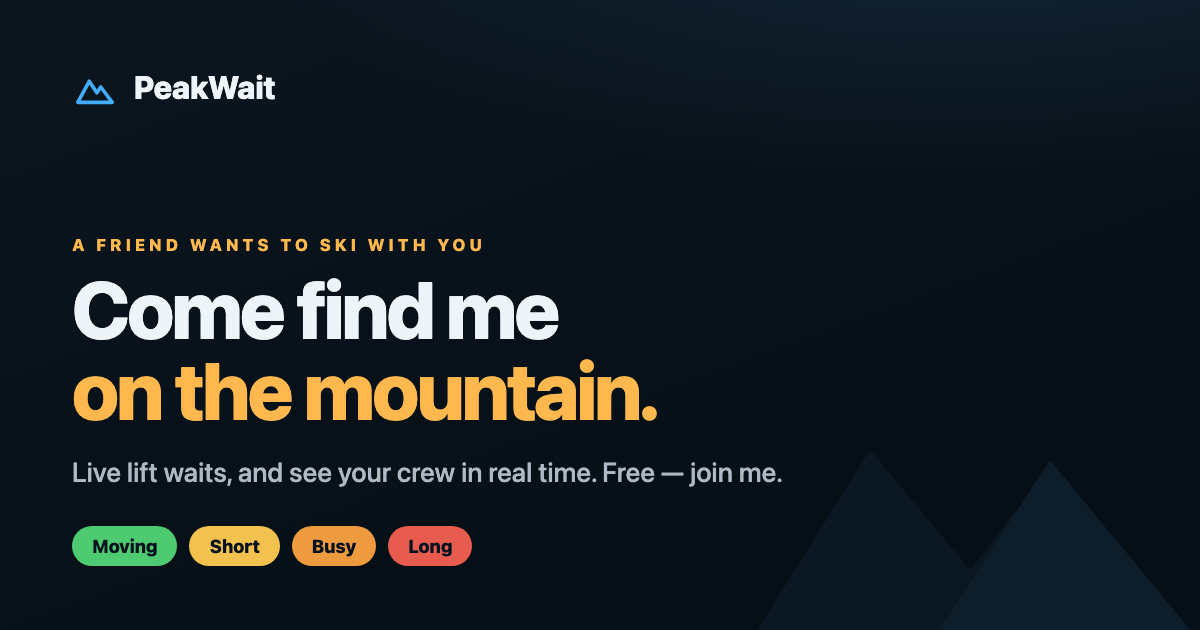
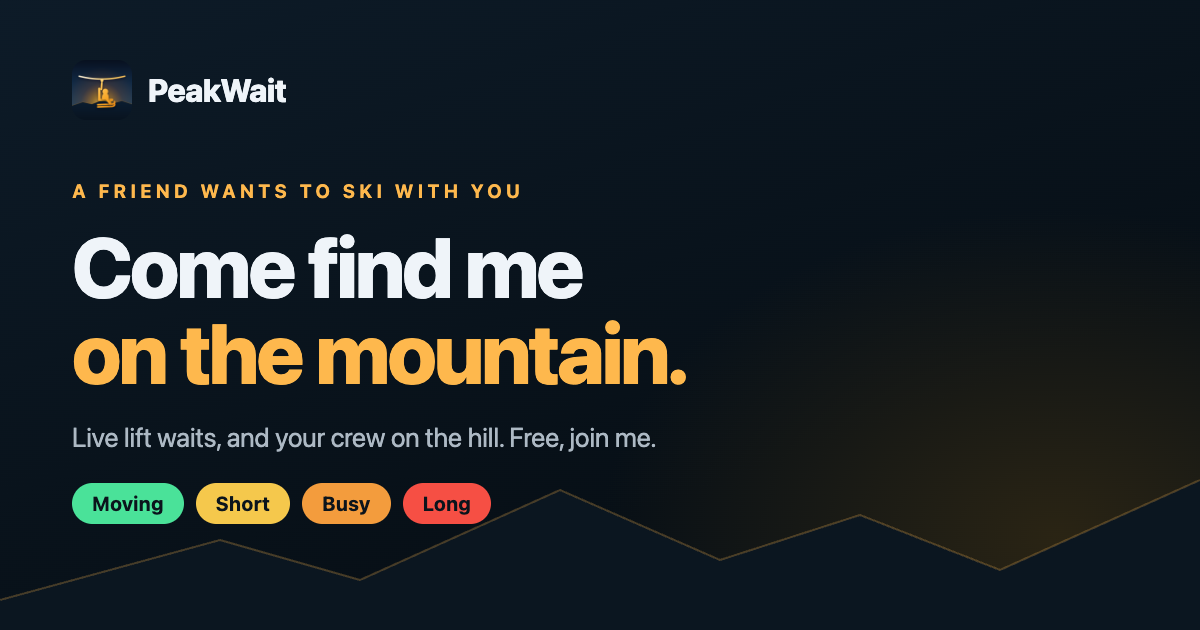
Link previews: gold chairlift mark (#6)
* legal: invite rewards in the terms and privacy policy

Claude-Session: https://claude.ai/code/session_011tgCnv4mYNBDEkD15GxbWS

* Link previews: gold chairlift mark replaces the retired blue mountain

Claude-Session: https://claude.ai/code/session_011tgCnv4mYNBDEkD15GxbWS

---------

diff --git a/tools/og/og-invite.html b/tools/og/og-invite.html
@@ -1,0 +1,17 @@
+<!doctype html><html><head><meta charset="utf-8"><style>
+@font-face{font-family:SF;src:url("file:///System/Library/Fonts/SFNS.ttf");font-weight:100 900}
+*{margin:0;box-sizing:border-box}html,body{width:1200px;height:630px;overflow:hidden}
+body{background:radial-gradient(700px 500px at 88% 85%,#2a2414 0%,rgba(7,15,22,0) 65%),linear-gradient(160deg,#0d1b28 0%,#070F16 70%);font-family:SF,sans-serif;color:#EFF4F9;position:relative}
+.brand{position:absolute;left:72px;top:60px;display:flex;align-items:center;gap:16px;font-weight:800;font-size:32px;letter-spacing:-.01em}
+.brand img{width:60px;height:60px;border-radius:14px}
+.box{position:absolute;left:72px;top:200px;right:72px}
+.eye{font-weight:700;font-size:19px;letter-spacing:.2em;color:#FEB84D;margin-bottom:22px}
+.eye.g{color:#ADB9C4}
+h1{font-weight:800;font-size:84px;line-height:1.02;letter-spacing:-.03em}h1 span{color:#FEB84D}
+p{margin-top:26px;font-size:27px;color:#ADB9C4}
+.pills{margin-top:30px;display:flex;gap:12px}.pills b{font-size:20px;padding:9px 20px;border-radius:30px;color:#0b141c}
+.ridge{position:absolute;left:0;right:0;bottom:0;height:200px}
+</style></head><body>
+<svg class="ridge" viewBox="0 0 1200 200" preserveAspectRatio="none"><path d="M0 170 L220 110 L360 150 L560 60 L720 130 L860 85 L1000 140 L1200 50 L1200 200 L0 200Z" fill="#0b1620"/><path d="M0 170 L220 110 L360 150 L560 60 L720 130 L860 85 L1000 140 L1200 50" fill="none" stroke="#FEB84D" stroke-opacity=".25" stroke-width="2"/></svg>
+<div class="brand"><img src="icon-512.png">PeakWait</div>
+<div class="box" style="top:180px"><div class="eye">A FRIEND WANTS TO SKI WITH YOU</div><h1>Come find me<br><span>on the mountain.</span></h1><p>Live lift waits, and your crew on the hill. Free, join me.</p><div class="pills"><b style="background:#4AE299">Moving</b><b style="background:#F5C84C">Short</b><b style="background:#F39C3D">Busy</b><b style="background:#F64F44">Long</b></div></div></body></html>

diff --git a/tools/og/og.html b/tools/og/og.html
@@ -1,0 +1,17 @@
+<!doctype html><html><head><meta charset="utf-8"><style>
+@font-face{font-family:SF;src:url("file:///System/Library/Fonts/SFNS.ttf");font-weight:100 900}
+*{margin:0;box-sizing:border-box}html,body{width:1200px;height:630px;overflow:hidden}
+body{background:radial-gradient(700px 500px at 88% 85%,#2a2414 0%,rgba(7,15,22,0) 65%),linear-gradient(160deg,#0d1b28 0%,#070F16 70%);font-family:SF,sans-serif;color:#EFF4F9;position:relative}
+.brand{position:absolute;left:72px;top:60px;display:flex;align-items:center;gap:16px;font-weight:800;font-size:32px;letter-spacing:-.01em}
+.brand img{width:60px;height:60px;border-radius:14px}
+.box{position:absolute;left:72px;top:200px;right:72px}
+.eye{font-weight:700;font-size:19px;letter-spacing:.2em;color:#FEB84D;margin-bottom:22px}
+.eye.g{color:#ADB9C4}
+h1{font-weight:800;font-size:84px;line-height:1.02;letter-spacing:-.03em}h1 span{color:#FEB84D}
+p{margin-top:26px;font-size:27px;color:#ADB9C4}
+.pills{margin-top:30px;display:flex;gap:12px}.pills b{font-size:20px;padding:9px 20px;border-radius:30px;color:#0b141c}
+.ridge{position:absolute;left:0;right:0;bottom:0;height:200px}
+</style></head><body>
+<svg class="ridge" viewBox="0 0 1200 200" preserveAspectRatio="none"><path d="M0 170 L220 110 L360 150 L560 60 L720 130 L860 85 L1000 140 L1200 50 L1200 200 L0 200Z" fill="#0b1620"/><path d="M0 170 L220 110 L360 150 L560 60 L720 130 L860 85 L1000 140 L1200 50" fill="none" stroke="#FEB84D" stroke-opacity=".25" stroke-width="2"/></svg>
+<div class="brand"><img src="icon-512.png">PeakWait</div>
+<div class="box"><div class="eye g">LIVE LIFT WAITS · 116 SKI RESORTS</div><h1>Ski the mountain,<br><span>skip the wait.</span></h1></div></body></html>
